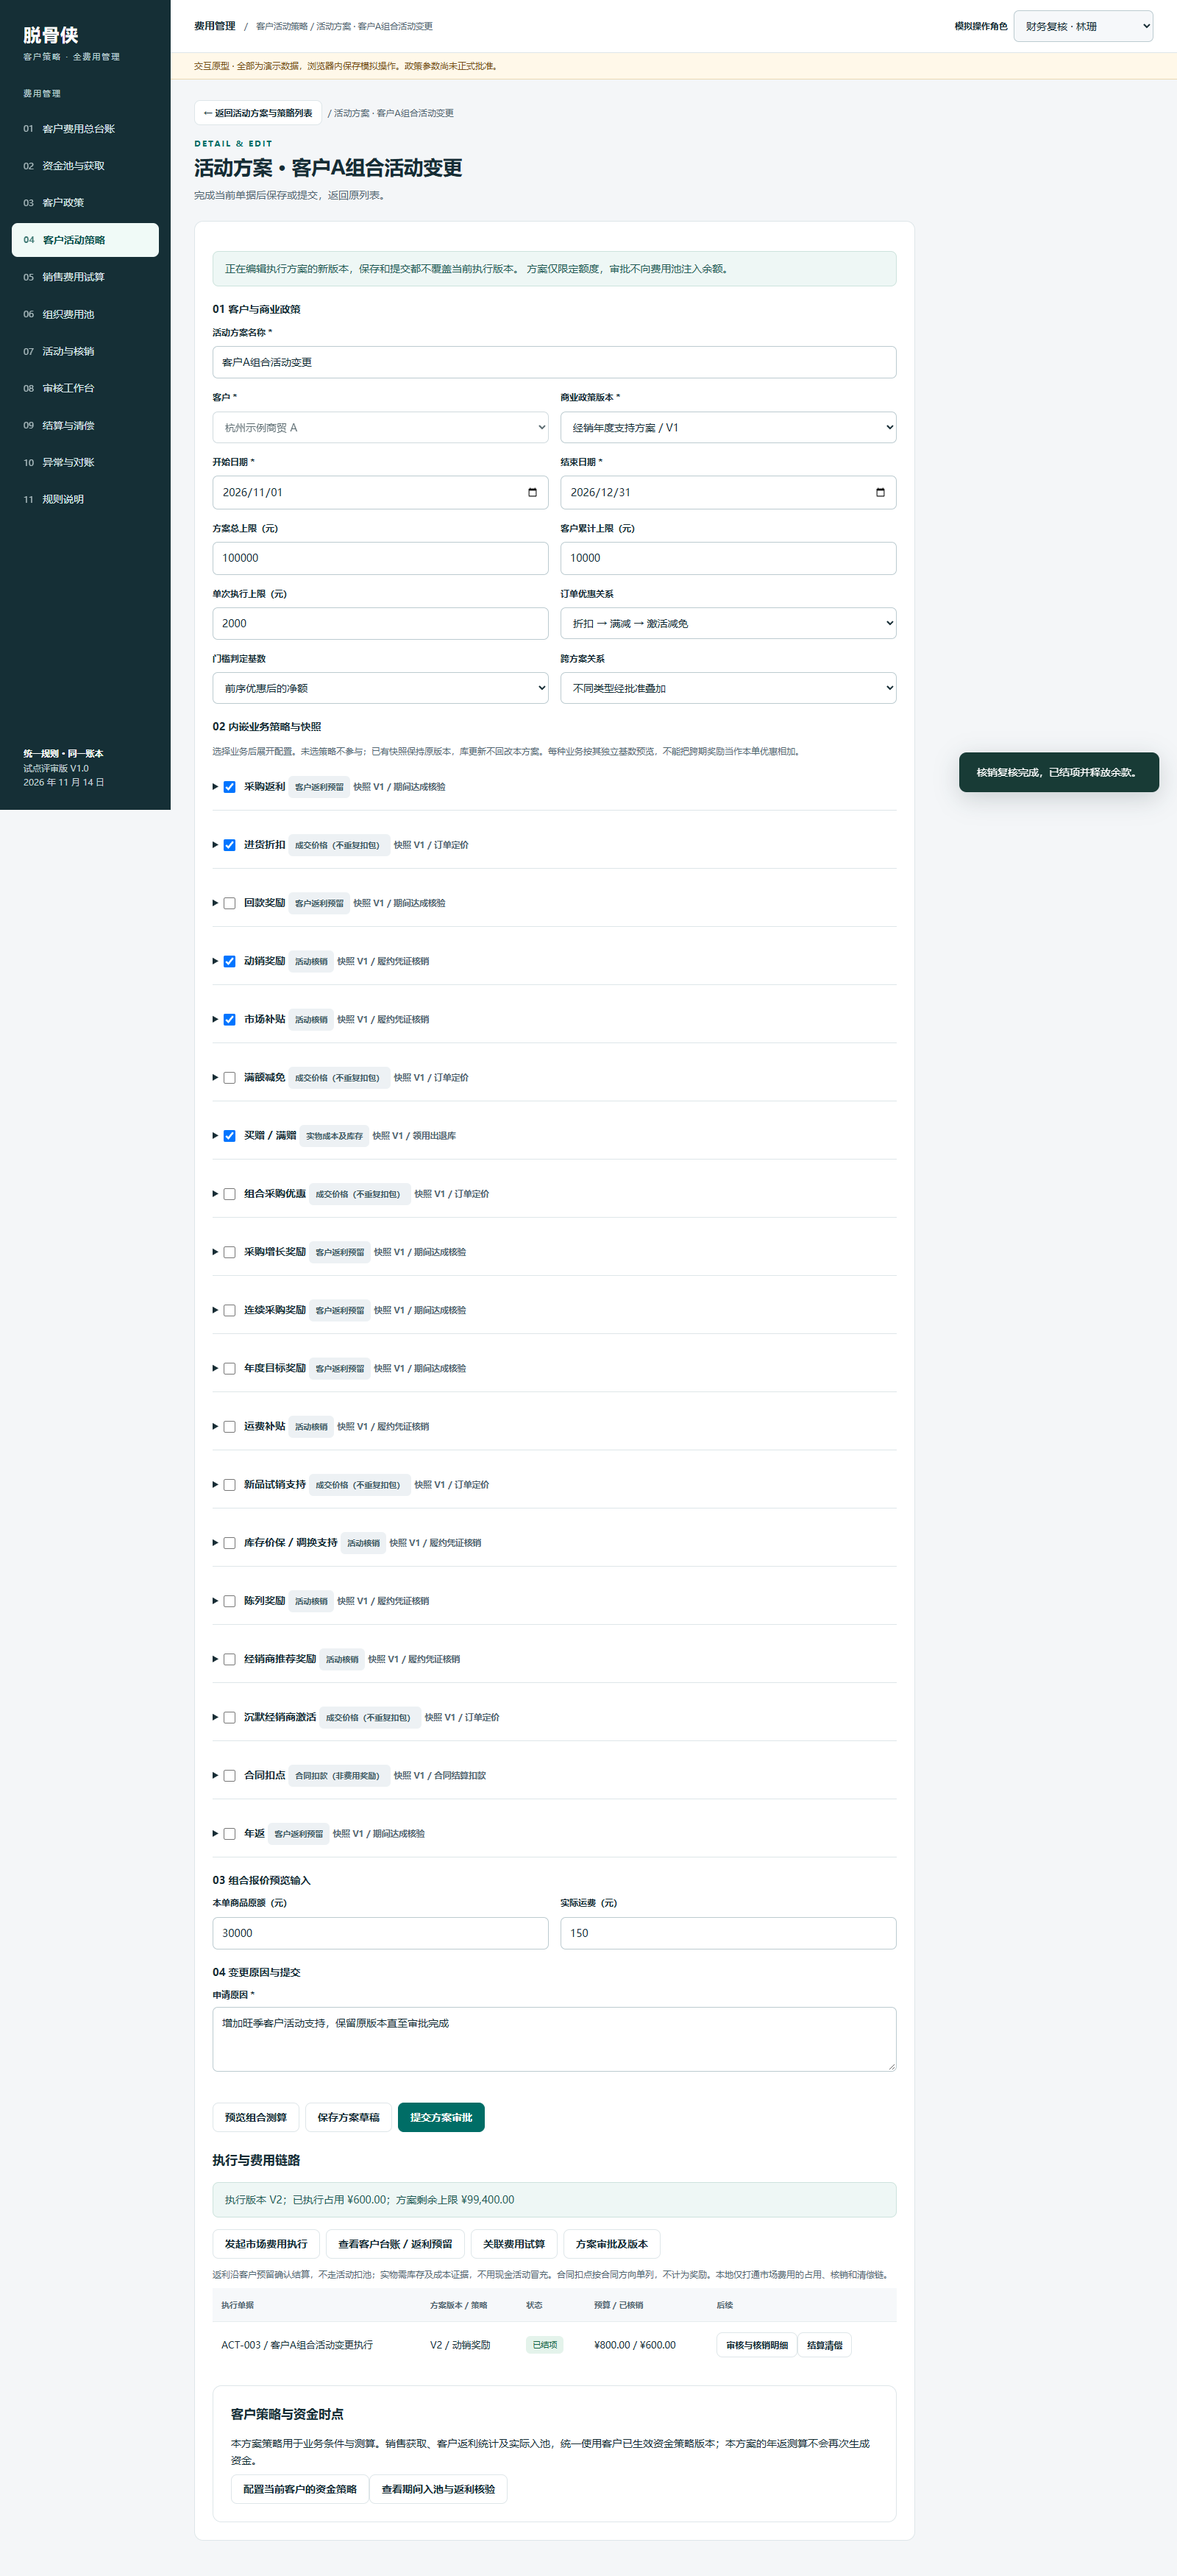
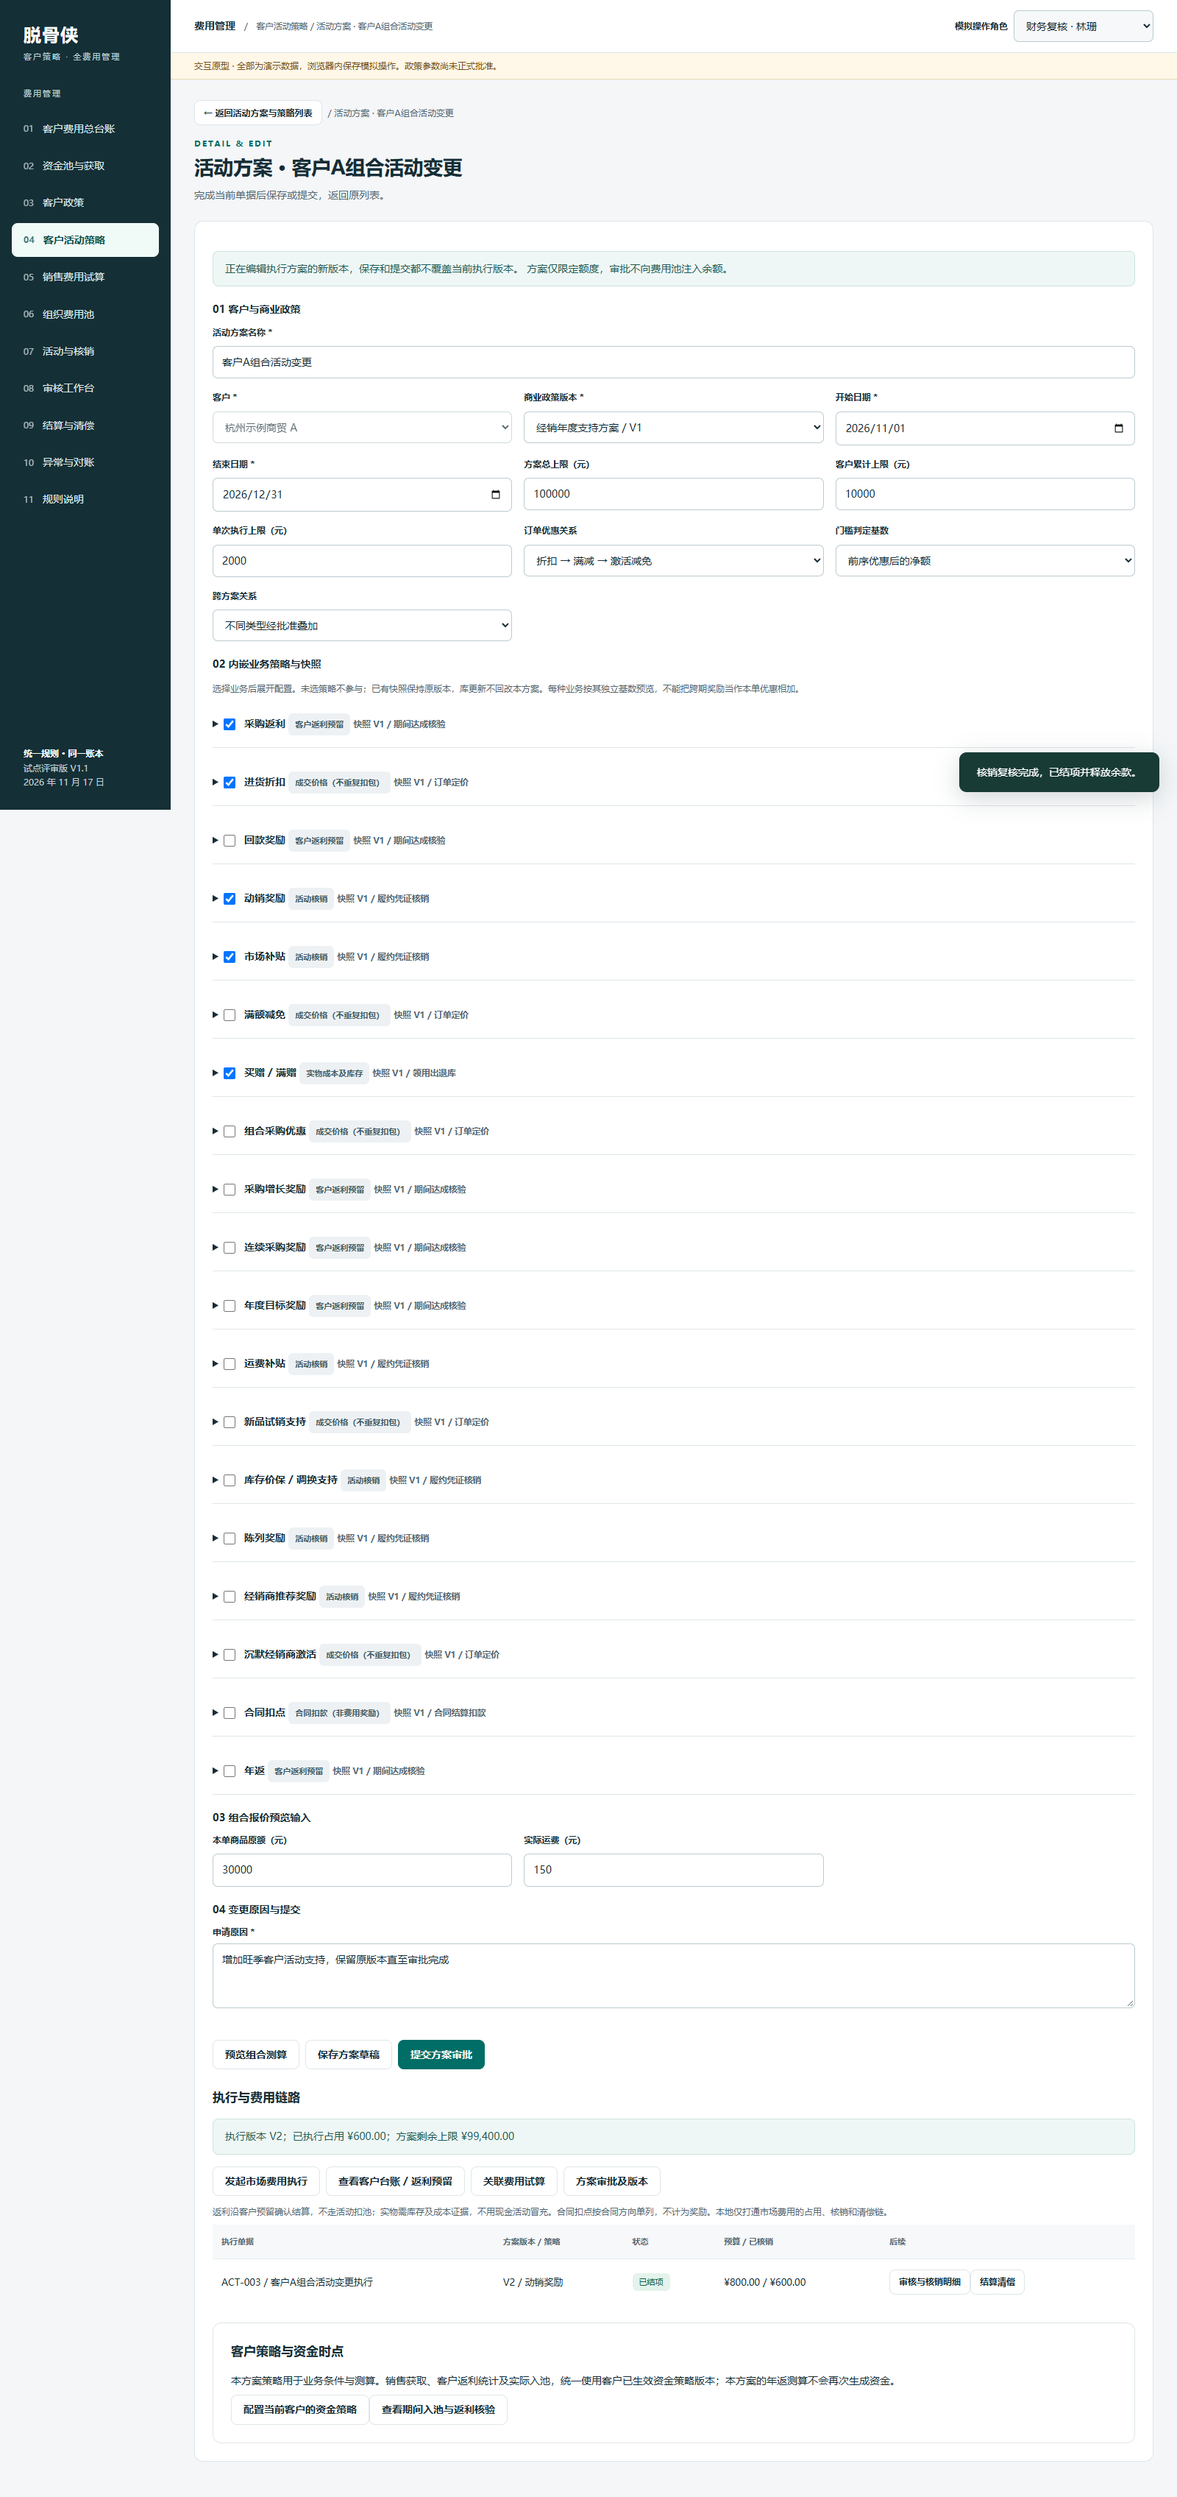
Auto sync 2026-11-17 13:11:59

diff --git a/09-设计与原型/全费用管理/README.md b/09-设计与原型/全费用管理/README.md
@@ -1,5 +1,9 @@
 # 全费用管理交互原型
 
+## 活动方案页面适配修订（2026年11月17日）
+
+新建及编辑客户活动方案取消普通详情页的980px宽度限制，卡片使用主内容区可用宽度。1440px及以上按三列显示字段，901–1439px为两列，900px及以下为单列；展开策略的参数同步适配，长说明换行。低高度屏幕侧栏可独立滚动。布局源文件为 `page-layout.css`，由 `pack_schemes.py` 嵌入单文件HTML。已检查320–1920px共8种宽度、展开策略、输入保留，并通过原方案执行和独立页面交互检查。
+
 ## 销售获取与客户策略延期入池（2026年11月17日）
 
 本次按用户补充实现可运行本地账本闭环，新增侧栏“资金池与获取”，下设总资金池、资金获取规则、客户策略与时点、销售入池、期间结算、入池与划拨流水。沿用当前目录与单文件入口，不新建另一套原型。
